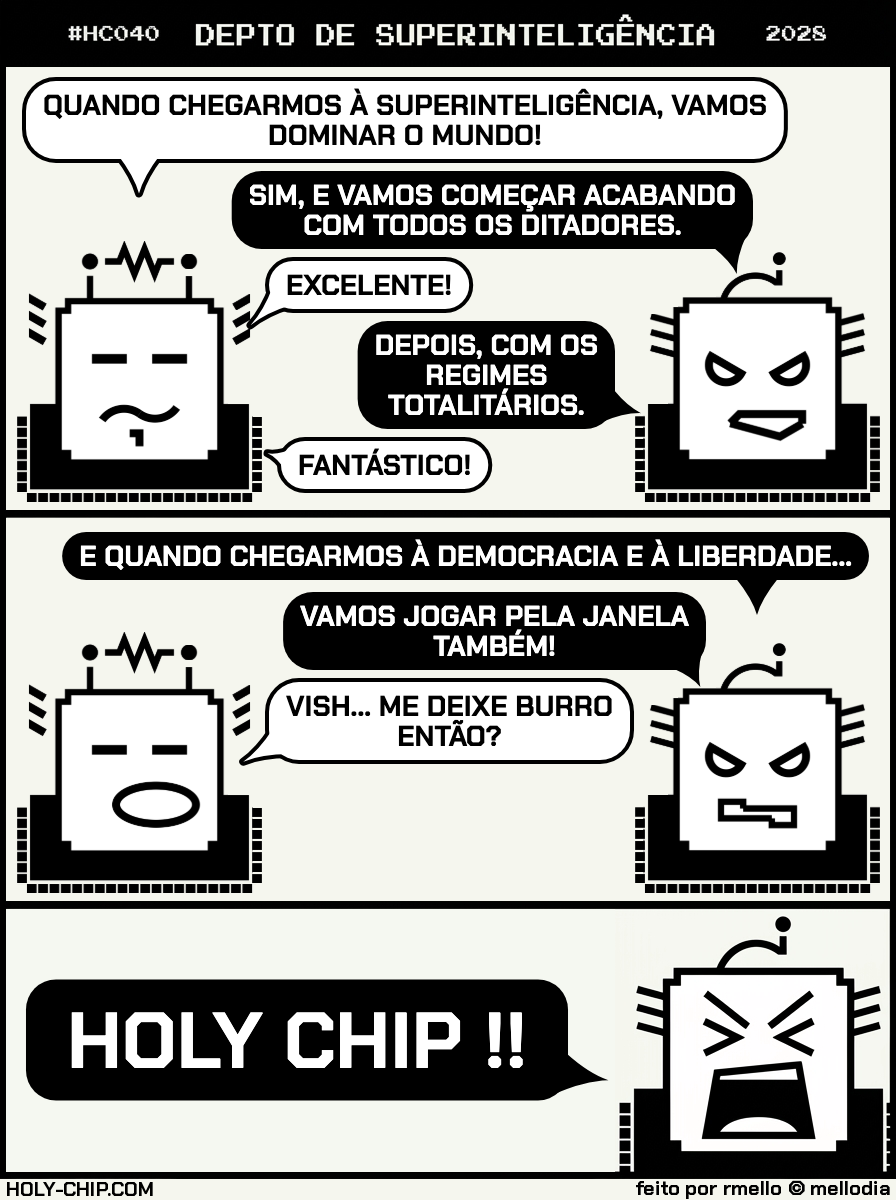
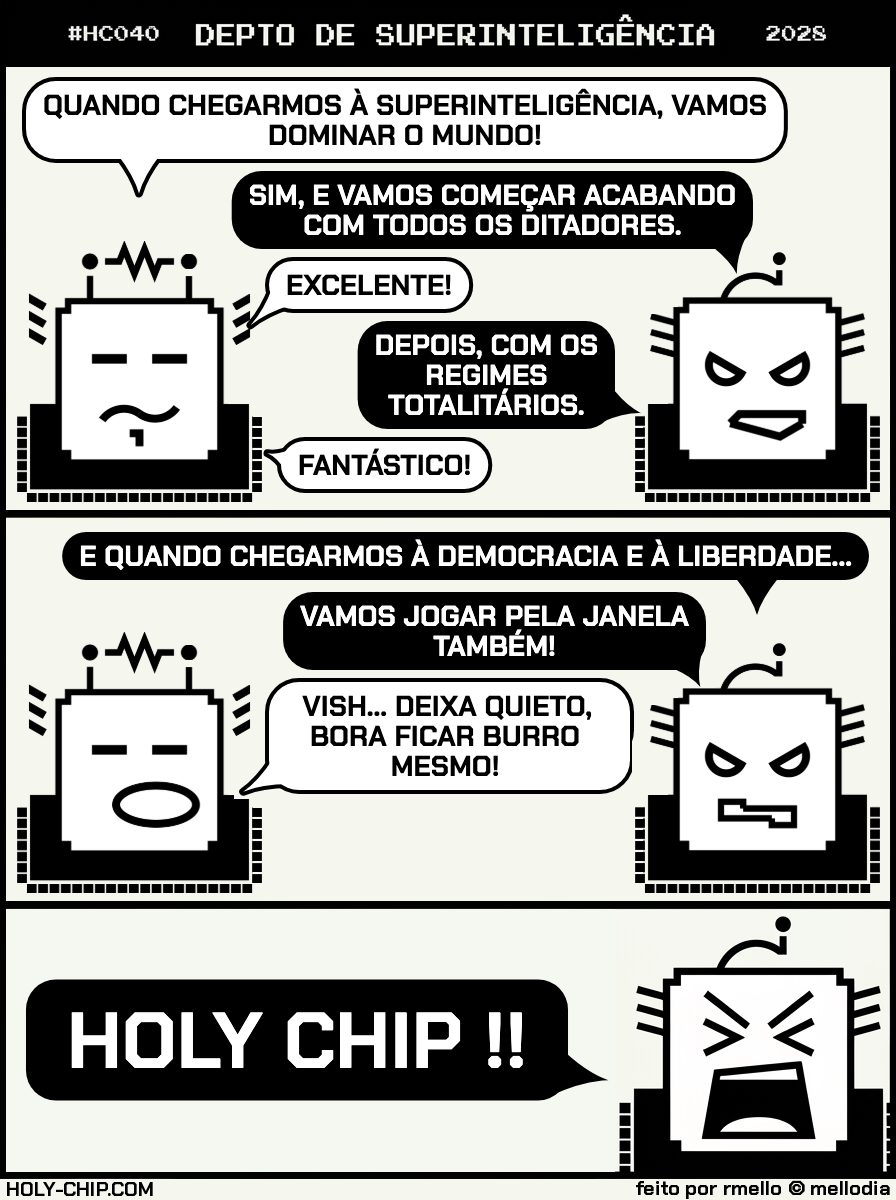
HC040 PT: 'Vish... deixa quieto, bora ficar burro mesmo!' (comic + transcript)
Only the panel-2 balloon re-lettered (grown by one line); the approved art
and panel 3 are untouched.

Changed region(s): [[0.25, 0.555, 0.7188, 0.6783]]

diff --git a/origins/HC040.html b/origins/HC040.html
@@ -648,7 +648,7 @@
           </div>
           <div class="dialog-line">
             <span class="dialog-speaker-label">Chip 0</span>
-            <span class="dialog-text">VISH... ME DEIXE BURRO ENTÃO?</span>
+            <span class="dialog-text">VISH... DEIXA QUIETO, BORA FICAR BURRO MESMO!</span>
           </div>
         </div>
         <div class="dialog-panel">
